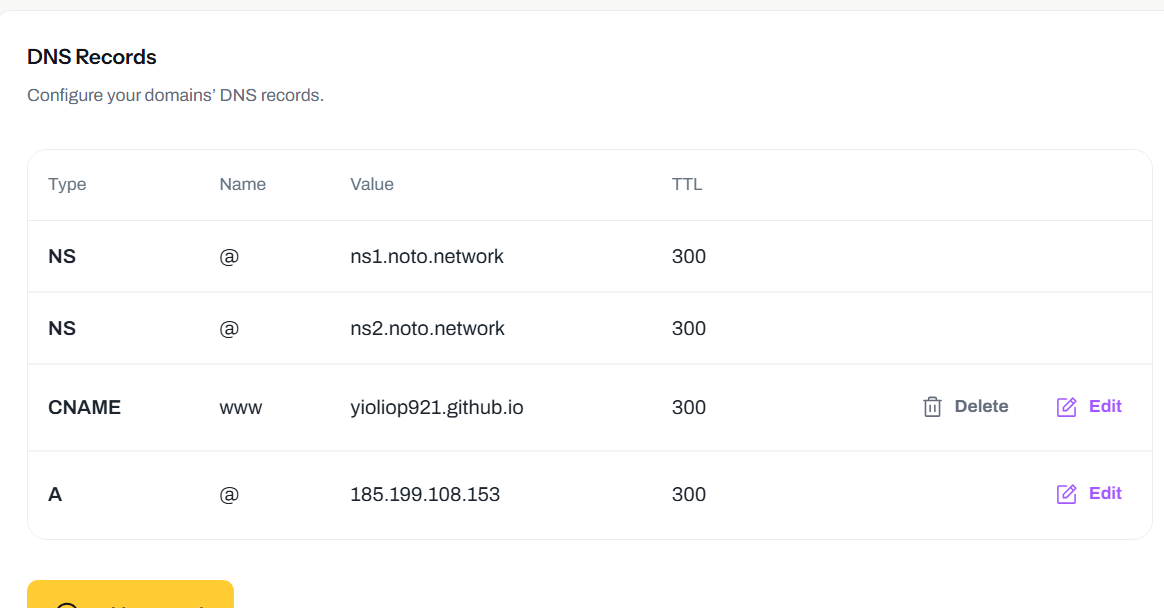
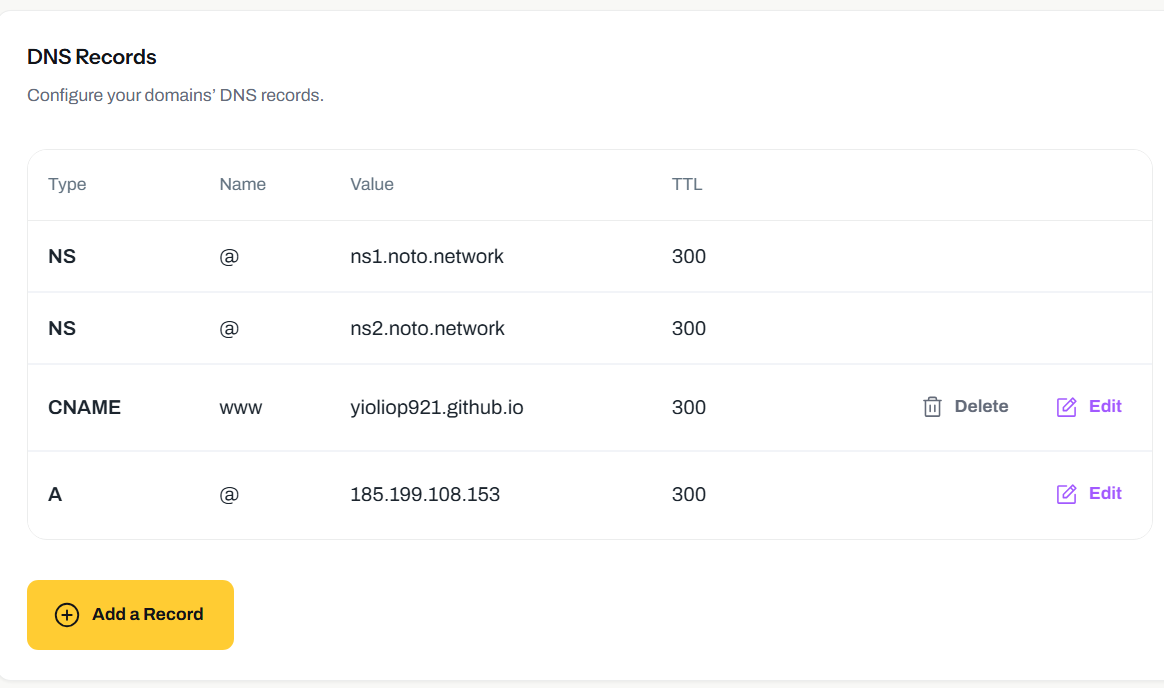
Re-crop Freename DNS screenshot so the Add a Record button is fully visible

diff --git a/index.html b/index.html
@@ -276,7 +276,7 @@ footer p{margin:0}
   </table>
 
   <figure>
-    <img src="shots/freename-dns.png" alt="Freename DNS Records tab showing NS records for Noto, a www CNAME to the GitHub Pages host, and one apex A record" loading="lazy" width="1164" height="608">
+    <img src="shots/freename-dns.png" alt="Freename DNS Records tab showing NS records for Noto, a www CNAME to the GitHub Pages host, and one apex A record" loading="lazy" width="1164" height="688">
     <figcaption><b>DNS Records tab.</b> Leave the two <code>NS</code> records alone &mdash; they point at Noto. Add the <code>CNAME</code> and the single <code>A</code>.</figcaption>
   </figure>
 
